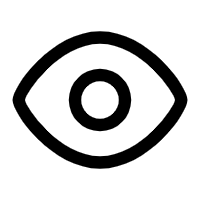
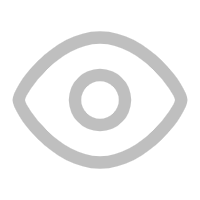
login

Changed region(s): [[0.06, 0.15, 0.96, 0.87], [0.33, 0.33, 0.66, 0.66]]

diff --git a/src/pages/login/login.jsx b/src/pages/login/login.jsx
@@ -1,0 +1,46 @@
+import Taro, { Component } from '@tarojs/taro'
+import { View, Text,Image, Input } from '@tarojs/components'
+import bg from '../img/bg.png'
+import './login.scss'
+import view from '../img/view.png'
+import viewOff from '../img/viewOff.png'
+
+export default class login extends Component{
+    state={
+        showView: true,
+        idValue: '',
+        passwordValue: ''
+}
+    onHandleId(e){
+        this.setState({
+            idValue:e.target.value
+        })
+    }
+    onHandlePassword(e) {
+        this.setState({
+            passwordValue: e.target.value
+        })
+    }
+    onViewPassword(){
+        const {showView} = this.state
+        if (showView){
+        this.setState({
+            showView: false,
+        })}else{
+            this.setState({
+                showView: true,
+            }) 
+        }
+    }
+    render(){
+        return(
+            <View className='container'>
+                <View className='bgcontainer'><Image className='bg' src={bg} /></View>
+                <View className='greeting'>欢迎登陆孤独星球</View>
+                <Input type='number' placeholder='请输入学号' className='id' Value={idValue} onInput={this.onHandleId.bind(this)}></Input>
+                <Input type={showView ? 'password' : 'text'} placeholder='请输入密码' className='password' value={passwordValue} onInput={this.onHandlePassword.bind(this)}></Input>
+                <Image className='view' src={showView ? view : viewOff} onClick={this.onViewPassword.bind(this)} />
+            </View>
+        )
+    }
+}

diff --git a/src/pages/login/login.scss b/src/pages/login/login.scss
@@ -1,0 +1,69 @@
+.greeting {
+    height: 58px;
+    font-size: 50px;
+    font-family: ZCOOLxingliti;
+    font-weight: 400;
+    line-height: 58px;
+    color: rgba(251, 249, 249, 1);
+    position: absolute;
+    top: 300px;
+    left: 200px;
+}
+
+.bg {
+    width: 760px;
+    height: 1500px;
+    z-index: -1;
+    position: absolute;
+}
+
+.id {
+    position: absolute;
+    z-index: 1;
+    top: 443px;
+    left: 150px;
+    width: 450px;
+    height: 81px;
+    background: rgba(255, 255, 255, 1);
+    border: 1px solid rgba(112, 112, 112, 1);
+    opacity: 1;
+    border-radius: 15px;
+    font-size: 30px;
+    font-family: PingFang SC;
+    font-weight: 400;
+    line-height: 42px;
+    color: rgba(3, 8, 26, 1);
+    opacity: 1;
+    padding-left: 20px;
+    letter-spacing: 5px;
+}
+
+.password {
+    position: absolute;
+    z-index: 1;
+    top: 538px;
+    left: 150px;
+    width: 450px;
+    height: 81px;
+    background: rgba(255, 255, 255, 1);
+    border: 1px solid rgba(112, 112, 112, 1);
+    opacity: 1;
+    border-radius: 15px;
+    font-size: 30px;
+    font-family: PingFang SC;
+    font-weight: 400;
+    line-height: 42px;
+    color: rgba(3, 8, 26, 1);
+    opacity: 1;
+    padding-left: 20px;
+    letter-spacing: 5px;
+}
+
+.view {
+    width: 32px;
+    height: 24px;
+    position: absolute;
+    z-index: 1;
+    right: 150px;
+    top: 569px;
+}

diff --git a/src/pages/nighthome/nighthome.jsx b/src/pages/nighthome/nighthome.jsx
@@ -9,8 +9,7 @@ import userGray from '../img/userGray.png'
 
 export default class Index extends Component {
 
-  componentWillMount () { 
-    console.log(JSON.stringify(this.$router.params.text))
+  componentWillMount () {
   }
 
   componentDidMount () { }

diff --git a/src/app.jsx b/src/app.jsx
@@ -21,6 +21,7 @@ class App extends Component {
 
   config = {
     pages: [
+      'pages/login/login',
       'pages/index/index',
       'pages/day/day',
       'pages/my/my',

diff --git a/src/pages/writeSecret/writeSecret.jsx b/src/pages/writeSecret/writeSecret.jsx
@@ -178,5 +178,4 @@ export default class WriteSecret extends Component {
         }
     
      
-        
-    }
+ }
